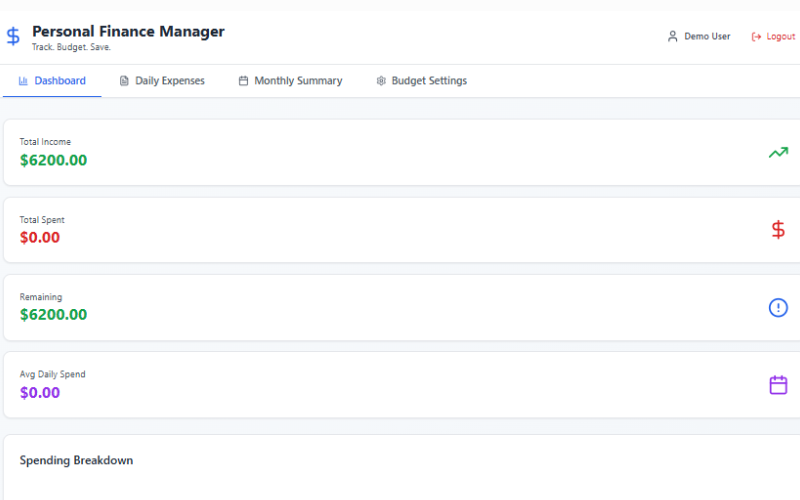
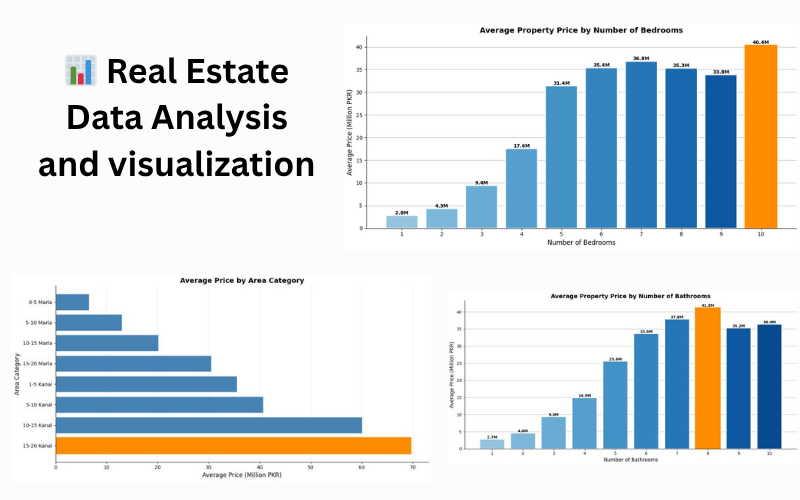
edited the information

diff --git a/components/Projects.jsx b/components/Projects.jsx
@@ -1,52 +1,64 @@
-'use client';  // ← ADD THIS (line 1, brand new)
+'use client';
 
 import { Container, Row, Col, Tab, Nav } from "react-bootstrap";
 import { ProjectCard } from "./ProjectCard";
 import 'animate.css';
 import TrackVisibility from 'react-on-screen';
 
-// ← DELETE all 7 of these imports:
-// import projImg1 from "../assets/img/project-img1.png";
-// import projImg2 from "../assets/img/project-img2.png";
-// import projImg3 from "../assets/img/project-img3.png";
-// import projImg4 from "../assets/img/project-img4.png";
-// import projImg5 from "../assets/img/project-img5.png";
-// import projImg6 from "../assets/img/project-img6.png";
-// import colorSharp2 from "../assets/img/color-sharp2.png";  ← was imported but never used anyway
-
 export const Projects = () => {
 
-  const projects = [
+  const webProjects = [
     {
       title: "Ecommerce Website",
       description: "Design & Development",
-      imgUrl: "/assets/img/project-img1.png",   // ← CHANGE: was projImg1
-      githubUrl: "https://github.com/Lamistashkeel/Amazon-clone",
+      imgUrl: "/assets/img/project-web-img1.png",
+
     },
     {
       title: "AI Customer Support SaaS",
-      description: "(Smart Chatbot + Ticket Automation)",
-      imgUrl: "/assets/img/project-img2.png",   // ← CHANGE: was projImg2
+      description: "Smart Chatbot + Ticket Automation",
+      imgUrl: "/assets/img/project-web-img2.png",
     },
     {
-      title: "Personal-finance-management-system",
-      description: "planner & budgeting app",
-      imgUrl: "/assets/img/project-img3.png",   // ← CHANGE: was projImg3
+      title: "Personal Finance Management System",
+      description: "Planner & budgeting app",
+      imgUrl: "/assets/img/project-web-img3.png",
     },
     {
-      title: "Climate-data-analysis",
+      title: "Ms-Skin-Cinic",                         // ← add your real 4th web project title
+      description: "skin-Clinic_website",
+      imgUrl: "/assets/img/project-web-img4.png",
+      liveUrl: "https://ms-skin-clinic.vercel.app/",  
+    },
+    {
+      title: "Auto-Repair-Shop",                      // ← add your real 5th web project title
+      description: "car-repair-website",
+      imgUrl: "/assets/img/project-web-img5.png",
+      liveUrl: " https://canadian-auto.vercel.app/", 
+     
+    },
+    // {
+    //   title: "Portfolio Website",                   // ← add your real 6th web project title
+    //   description: "Next.js + Bootstrap",
+    //   imgUrl: "/assets/img/project-web-img6.png",
+    // },
+  ];
+
+  const dataProjects = [
+    {
+      title: "Climate Data Analysis",
       description: "Data analysis and visualization",
-      imgUrl: "/assets/img/project-img4.png",   // ← CHANGE: was projImg4
+      imgUrl: "/assets/img/project-img1.png",
     },
     {
-      title: "solar-power-generation-analysis",
+      title: "Solar Power Generation Analysis",
       description: "Data analysis and visualization",
-      imgUrl: "/assets/img/project-img5.png",   // ← CHANGE: was projImg5
+      imgUrl: "/assets/img/project-img2.png",
     },
     {
       title: "Zameen.com Real Estate Data Analysis",
       description: "Data analysis and visualization",
-      imgUrl: "/assets/img/project-img6.png",   // ← CHANGE: was projImg6
+      imgUrl: "/assets/img/project-img3.png",
     },
   ];
 
@@ -59,29 +71,39 @@ export const Projects = () => {
               {({ isVisible }) =>
               <div className={isVisible ? "animate__animated animate__fadeIn" : ""}>
                 <h2>Projects</h2>
-                <p>I've developed a range of full-stack web applications, including a budgeting planner, management system, online store, and a weather app that integrates live APIs for real-time forecasts all built with a focus on performance, usability, and responsive design.
+                <p>I've developed a range of frontend applications, including a Finance Management System, E-commerce 
+Website, Skin Clinic Website, and Auto/Car Repair Shop Website. All built with a focus on performance, usability, and responsive design.
 
 In data analysis and visualization, I've worked on exploratory data analysis (EDA) projects involving real estate trends, climate data, and solar power generation, transforming raw datasets into meaningful insights through data cleaning, analysis, and professional visualizations.</p>
                 <Tab.Container id="projects-tabs" defaultActiveKey="first">
                   <Nav variant="pills" className="nav-pills mb-5 justify-content-center align-items-center" id="pills-tab">
                     <Nav.Item>
-                      <Nav.Link eventKey="first">Web Projects</Nav.Link>   {/* ← optional: better label than "Tab 1" */}
+                      <Nav.Link eventKey="first">Web Projects</Nav.Link>
                     </Nav.Item>
                     <Nav.Item>
-                      <Nav.Link eventKey="second">Data Projects</Nav.Link> {/* ← optional: better label than "Tab 2" */}
+                      <Nav.Link eventKey="second">Data Projects</Nav.Link>
                     </Nav.Item>
                   </Nav>
                   <Tab.Content id="slideInUp" className={isVisible ? "animate__animated animate__slideInUp" : ""}>
+
+                    {/* ← 6 web projects */}
                     <Tab.Pane eventKey="first">
                       <Row>
-                        {projects.map((project, index) => (
+                        {webProjects.map((project, index) => (
                           <ProjectCard key={index} {...project} />
                         ))}
                       </Row>
                     </Tab.Pane>
-                    <Tab.Pane eventKey="second">  {/* ← CHANGE: was eventKey="section" which was a bug, never matched "Tab 2" */}
-                      <p>-</p>
+
+                    {/* ← 3 data projects */}
+                    <Tab.Pane eventKey="second">
+                      <Row>
+                        {dataProjects.map((project, index) => (
+                          <ProjectCard key={index} {...project} />
+                        ))}
+                      </Row>
                     </Tab.Pane>
+
                   </Tab.Content>
                 </Tab.Container>
               </div>}

diff --git a/components/Skills.jsx b/components/Skills.jsx
@@ -40,25 +40,25 @@ export const Skills = () => {
           <div className="col-12">
             <div className="skill-bx wow zoomIn">
               <h2>Skills</h2>
-              <p>MERN Stack (MongoDB, Express.js, React, Node.js), REST APIs, JavaScript, HTML, CSS, Responsive Design,<br/>
-              Python (Pandas, Matplotlib, Seaborn), Data Analysis, EDA, Data Visualization, Excel,
-              Git, GitHub, Postman</p>
+              <p>HTML5, CSS3, JavaScript (ES6+), React.js, Next.js, Tailwind CSS, Bootstrap, Responsive Design, REST API Integration,<br/>
+              Python (Pandas, Matplotlib, Seaborn), Data CLeaning & Analysis, EDA, Data Visualization, Excel,
+              Git, GitHub, Thunderclient</p>
               <Carousel responsive={responsive} infinite={true} className="owl-carousel owl-theme skill-slider">
                 <div className="item">
                   <Image src="/assets/img/meter1.svg" alt="Skill meter" width={100} height={100} />  {/* ← CHANGE */}
-                  <h5>AI + (MERN) Developer</h5>
+                  <h5>Web Development</h5>
                 </div>
                 <div className="item">
                   <Image src="/assets/img/meter2.svg" alt="Skill meter" width={100} height={100} />  {/* ← CHANGE */}
-                  <h5>Data analysis and visualization</h5>
+                  <h5>AI + Frontend Development </h5>
                 </div>
                 <div className="item">
                   <Image src="/assets/img/meter3.svg" alt="Skill meter" width={100} height={100} />  {/* ← CHANGE */}
-                  <h5>Data analyst</h5>
+                  <h5>Data analysis and visualization</h5>
                 </div>
                 <div className="item">
                   <Image src="/assets/img/meter1.svg" alt="Skill meter" width={100} height={100} />  {/* ← CHANGE */}
-                  <h5>Web app Development</h5>
+                  <h5>Data analyst</h5>
                 </div>
               </Carousel>
             </div>

diff --git a/components/Banner.jsx b/components/Banner.jsx
@@ -65,8 +65,8 @@ export const Banner = () => {
                     <span className="wrap">{text}</span>
                   </span>
                 </h1>
-                <p>I'm AI-driven MERN Stack Developer building scalable Web Apps, SaaS using
-                  MongoDB, Express.js, React, and Node.js, with a focus on creating responsive
+                <p>I'm AI-driven Frontend Developer experienced in building responsive web applications and landing pages using
+HTML5, CSS3, JavaScript, React.js, and Next.js. Skilled in converting UI/UX designs into clean, userfriendly interfaces with Tailwind CSS and Bootstrap, with a focus on creating responsive
                   interfaces and efficient, scalable systems. I also work as a data analyst,
                   transforming raw data through cleaning and preprocessing, then turning it into
                   clear, professional visualizations using Python (Pandas, Matplotlib, Seaborn)

diff --git a/components/ProjectCard.jsx b/components/ProjectCard.jsx
@@ -1,13 +1,19 @@
-import { Col } from "react-bootstrap";
-import Image from "next/image";   // ← ADD
 
-export const ProjectCard = ({ title, description, imgUrl }) => {
+
+import { Col } from "react-bootstrap";
+import Image from "next/image";
+
+export const ProjectCard = ({ title, description, imgUrl, liveUrl }) => {  // ← ADD liveUrl
   return (
     <Col size={12} sm={6} md={4}>
-      <div className="proj-imgbx">
+      <div
+        className="proj-imgbx"
+        onClick={() => liveUrl && window.open(liveUrl, '_blank')}         // ← ADD
+        style={{ cursor: liveUrl ? 'pointer' : 'default' }}              // ← ADD
+      >
         <Image
-          src={imgUrl}           // ← stays the same, path comes from Projects.jsx
-          alt={title}            // ← CHANGE: was no alt, now uses title for accessibility
+          src={imgUrl}
+          alt={title}
           width={400}
           height={300}
         />

diff --git a/components/NavBar.jsx b/components/NavBar.jsx
@@ -4,11 +4,6 @@ import { useState, useEffect } from "react";
 import { Navbar, Container, Nav } from "react-bootstrap";
 import Image from "next/image";   // ← CHANGE: replaces all 4 svg imports below
 
-// ← DELETE all 4 of these:
-// import logo from '../assets/img/logo.svg';
-// import navIcon1 from '../assets/img/nav-icon1.svg';
-// import navIcon2 from '../assets/img/nav-icon2.svg';
-// import navIcon3 from '../assets/img/nav-icon3.svg';
 
 export const NavBar = () => {
   const [activeLink, setActiveLink] = useState('home');
